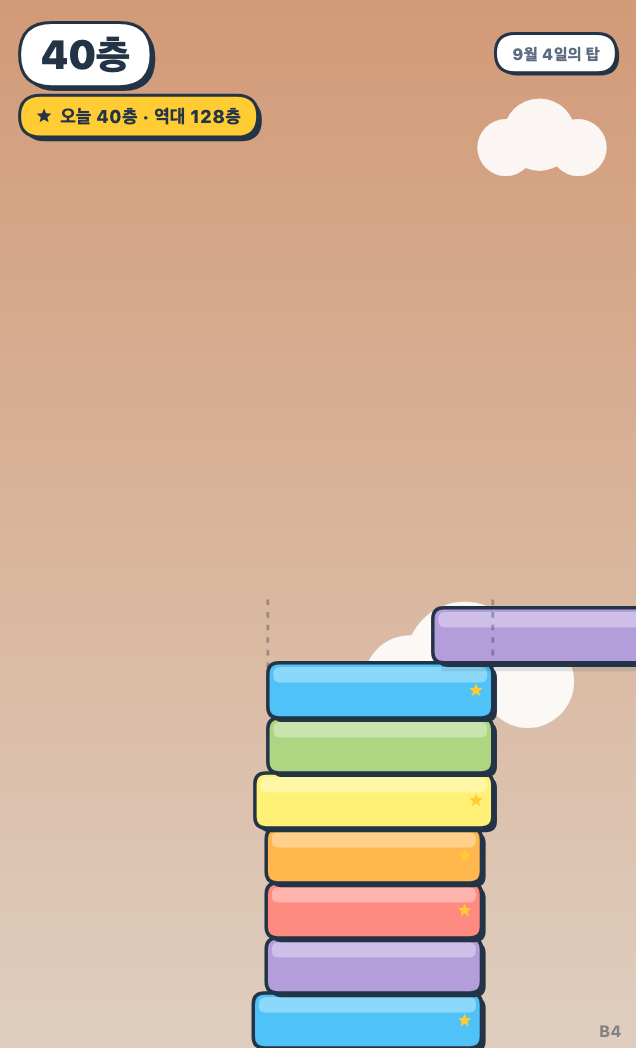
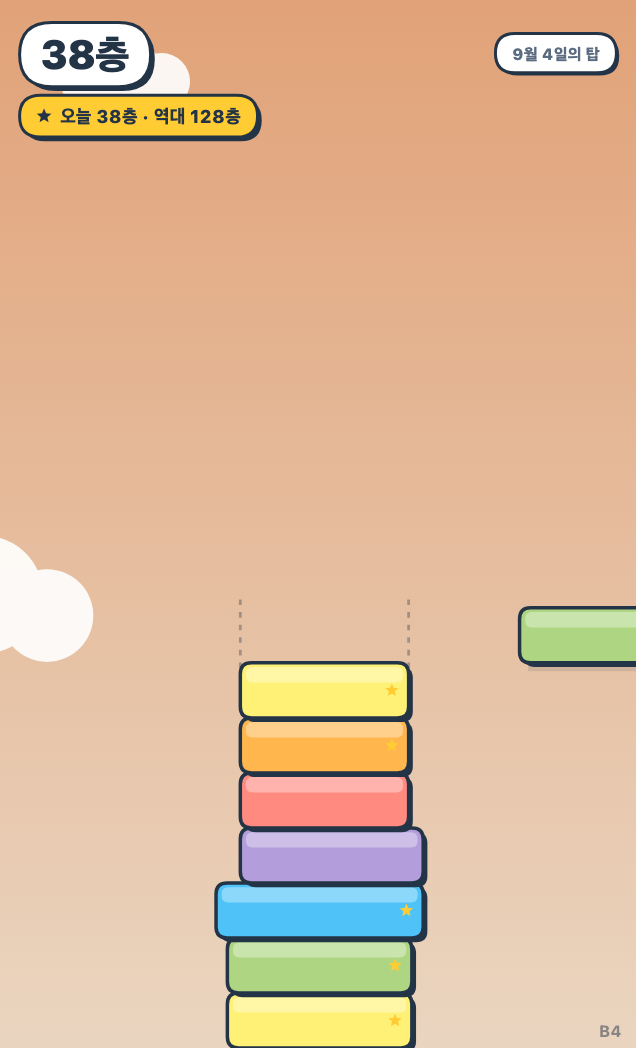
콘솔 스크린샷 04·05·06 재촬영 — 탑이 기계적으로 보이던 것
딱(어긋남 0)만 이어 붙여 쌓아 폭이 전부 같고 좌우도 나란해, 사람이 친
탑이 아니라 자로 잰 것처럼 보였다(사용자 지적). 어긋남을 섞어 다시 쌓았다 —
절반쯤 딱, 나머지는 ±4~15px. 폭이 줄면 3연속 딱으로 회복시킨다.

새 이미지를 static.toss.im에 올리고 콘솔 웹 2단계의 해당 3장을 교체해 임시저장했다.
STORE_COPY에 "탑은 들쭉날쭉해야 한다"를 촬영 지침으로 남겼다.

Claude-Session: https://claude.ai/code/session_01598itZcSTf6H7m9t6njoJx

diff --git a/docs/STORE_COPY.md b/docs/STORE_COPY.md
@@ -92,14 +92,18 @@ GRAC 신청 장르는 "아케이드(원버튼 탑 쌓기)"이고, 탑 쌓기는 
 | `01-시작화면-636x1048.png` | 636×1048 | 세로 스크린샷 — 제목·부제·[탭해서 시작] |
 | `02-쌓기-636x1048.png` | 636×1048 | 왕복하는 블록과 안내 점선 |
 | `03-딱콤보-636x1048.png` | 636×1048 | 「딱! ×3」·「폭 회복!」 |
-| `04-노을-636x1048.png` | 636×1048 | 40층, 노을 하늘 |
-| `05-우주-636x1048.png` | 636×1048 | 110층, 별이 뜬 우주 |
+| `04-노을-636x1048.png` | 636×1048 | 38층, 노을 하늘 |
+| `05-우주-636x1048.png` | 636×1048 | 108층, 별이 뜬 우주 |
 | `06-결과카드-636x1048.png` | 636×1048 | 「끝」·결과 카드·[광고 보고 이어하기] |
 
 **로고에는 제목 글씨를 넣지 않는다** (날아날아 교훈 — 목록에서 줄면 뭉개지고, 이름은 아이콘 옆에 플랫폼이 따로 찍는다).
 글씨는 가로 썸네일에만 쓴다.
 
 ### 다시 만드는 방법
+
+**탑은 들쭉날쭉해야 한다.** 딱(어긋남 0)만 이어 붙이면 폭이 전부 같아져 "기계로 찍은 탑"이 된다
+(2026-09-04 사용자 지적으로 04·05·06 재촬영). 장면을 만들 때 어긋남을 섞는다 —
+절반쯤은 0, 나머지는 ±4~15px 무작위. 폭이 너무 줄면 딱을 세 번 몰아 회복시킨다.
 
 로고·썸네일은 `tools/store-compose.html`(캔버스를 규격 크기 그대로 그린다), 세로 스크린샷은
 `tools/frame.html`의 iframe을 **318×524 CSS px**로 줄여 게임을 그 크기로 직접 렌더한 뒤 캔버스를 그대로 읽는다
